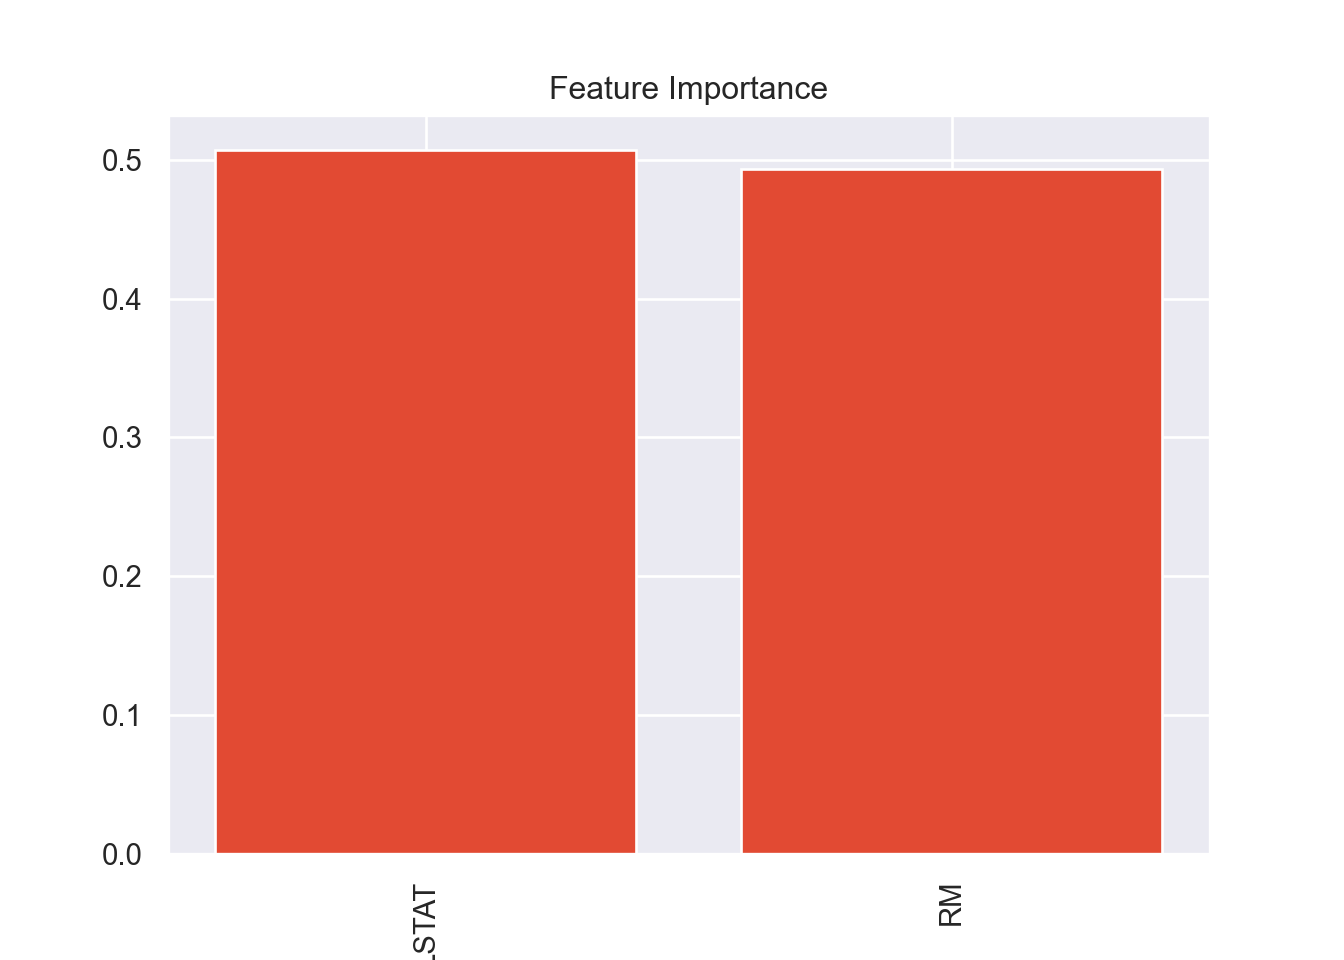
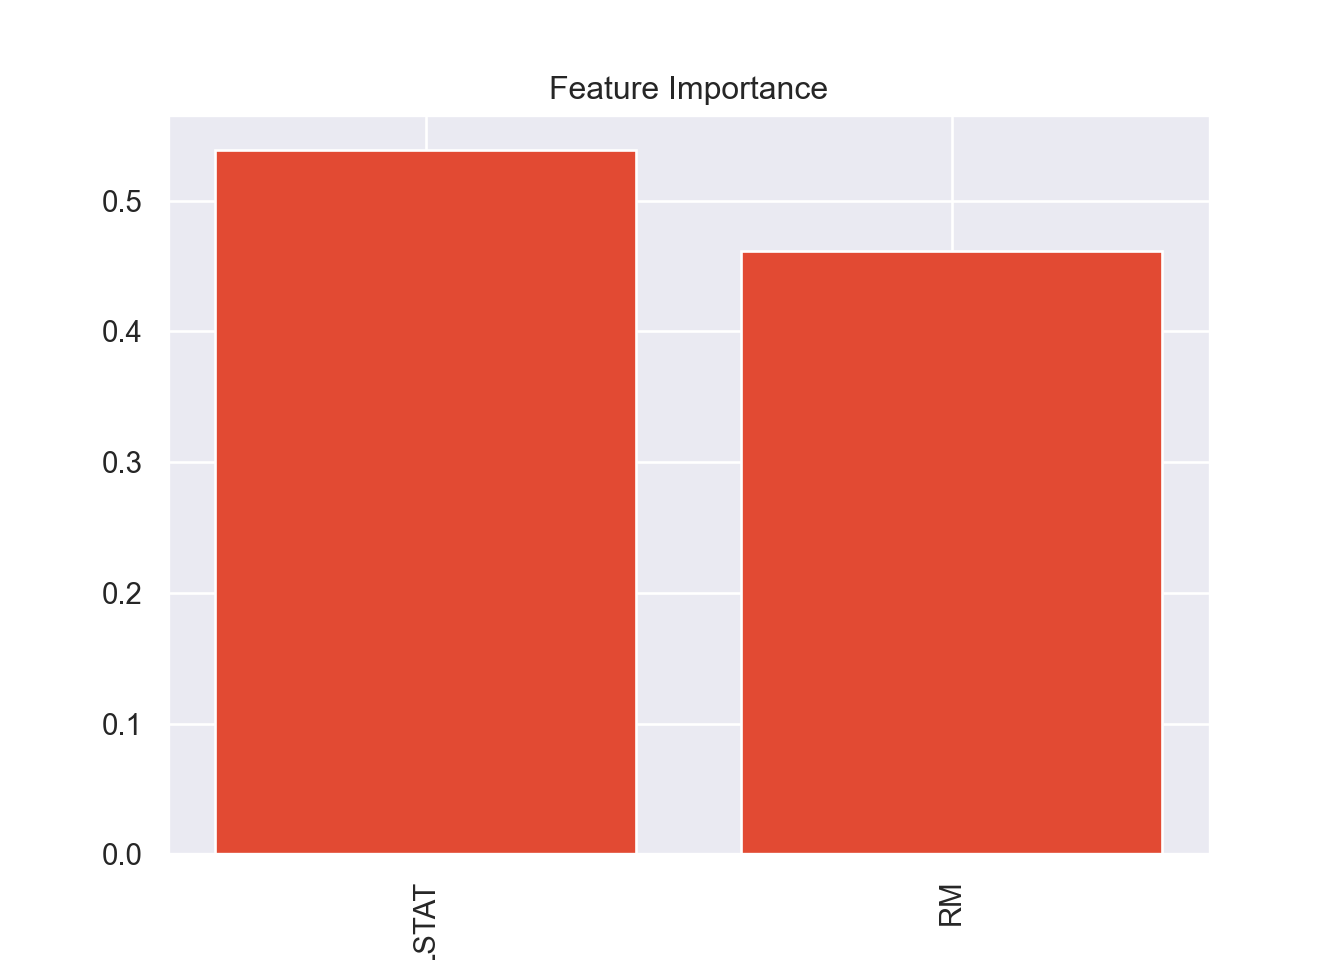
Updating jquery to 3.6.0 to mitigate security issues.

diff --git a/bitcoin.html b/bitcoin.html
@@ -566,8 +566,7 @@ line or ‘line of best fit’.</p>
 <span id="cb1-12"><a href="#cb1-12" tabindex="-1"></a>  <span class="fu">ylab</span>(<span class="st">&quot;USD&quot;</span>) <span class="sc">+</span></span>
 <span id="cb1-13"><a href="#cb1-13" tabindex="-1"></a>  <span class="fu">ggtitle</span>(<span class="st">&quot;Opening Price of Bitcoin&quot;</span>) <span class="sc">+</span></span>
 <span id="cb1-14"><a href="#cb1-14" tabindex="-1"></a>  <span class="fu">geom_smooth</span>(<span class="at">method =</span> <span class="st">&quot;loess&quot;</span>, <span class="at">level =</span> <span class="dv">0</span>)</span></code></pre></div>
-<pre><code>## `geom_smooth()` using formula
-## = &#39;y ~ x&#39;</code></pre>
+<pre><code>## `geom_smooth()` using formula = &#39;y ~ x&#39;</code></pre>
 <p><img src="bitcoin_files/figure-html/initial%20plot-1.png" width="672" /></p>
 <div class="sourceCode" id="cb3"><pre class="sourceCode r"><code class="sourceCode r"><span id="cb3-1"><a href="#cb3-1" tabindex="-1"></a>open <span class="ot">&lt;-</span> <span class="fu">as.ts</span>(df_sub<span class="sc">$</span>Open)</span></code></pre></div>
 </div>
@@ -653,12 +652,8 @@ transformed data.</p>
 <span id="cb8-9"><a href="#cb8-9" tabindex="-1"></a>  <span class="fu">ylab</span>(<span class="st">&quot;USD (after log transformation)&quot;</span>) <span class="sc">+</span></span>
 <span id="cb8-10"><a href="#cb8-10" tabindex="-1"></a>  <span class="fu">ggtitle</span>(<span class="st">&quot;Series after Box-Cox&quot;</span>) <span class="sc">+</span></span>
 <span id="cb8-11"><a href="#cb8-11" tabindex="-1"></a>  <span class="fu">geom_smooth</span>(<span class="at">method =</span> <span class="st">&quot;loess&quot;</span>, <span class="at">level =</span> <span class="dv">0</span>)</span></code></pre></div>
-<pre><code>## Don&#39;t know how to
-## automatically pick scale for
-## object of type &lt;ts&gt;.
-## Defaulting to continuous.
-## `geom_smooth()` using formula
-## = &#39;y ~ x&#39;</code></pre>
+<pre><code>## Don&#39;t know how to automatically pick scale for object of type &lt;ts&gt;. Defaulting to continuous.
+## `geom_smooth()` using formula = &#39;y ~ x&#39;</code></pre>
 <p><img src="bitcoin_files/figure-html/box-cox%20transformation-1.png" width="672" /></p>
 <div class="sourceCode" id="cb10"><pre class="sourceCode r"><code class="sourceCode r"><span id="cb10-1"><a href="#cb10-1" tabindex="-1"></a><span class="co"># comparing the variances of original and transformed data</span></span>
 <span id="cb10-2"><a href="#cb10-2" tabindex="-1"></a><span class="fu">var</span>(open)</span></code></pre></div>
@@ -943,29 +938,19 @@ compare the results with each other and with the true values.</p>
 <span id="cb30-10"><a href="#cb30-10" tabindex="-1"></a><span class="co"># True Values</span></span>
 <span id="cb30-11"><a href="#cb30-11" tabindex="-1"></a><span class="fu">autoplot</span>(open_add, <span class="at">xlim =</span> <span class="fu">c</span>(<span class="dv">300</span>, <span class="dv">375</span>)) <span class="sc">+</span> <span class="fu">xlab</span>(<span class="st">&quot;Days from 10/09/15&quot;</span>) <span class="sc">+</span> <span class="fu">ylab</span>(<span class="st">&quot;USD&quot;</span>) <span class="sc">+</span></span>
 <span id="cb30-12"><a href="#cb30-12" tabindex="-1"></a>  <span class="fu">ggtitle</span>(<span class="st">&quot;True Values for Opening Price of Bitcoin, 2016-08-03 - 2016-10-18&quot;</span>)</span></code></pre></div>
-<pre><code>## Warning: Removed 300 rows containing
-## missing values
-## (`geom_line()`).</code></pre>
+<pre><code>## Warning: Removed 300 rows containing missing values (`geom_line()`).</code></pre>
 <p><img src="bitcoin_files/figure-html/forecasting-1.png" width="672" /></p>
 <div class="sourceCode" id="cb32"><pre class="sourceCode r"><code class="sourceCode r"><span id="cb32-1"><a href="#cb32-1" tabindex="-1"></a><span class="co"># ARIMA(1,1,2)</span></span>
 <span id="cb32-2"><a href="#cb32-2" tabindex="-1"></a><span class="fu">autoplot</span>(forecast112, <span class="at">xlim =</span> <span class="fu">c</span>(<span class="dv">300</span>, <span class="dv">375</span>)) <span class="sc">+</span> <span class="fu">xlab</span>(<span class="st">&quot;Days from 10/09/15&quot;</span>) <span class="sc">+</span> <span class="fu">ylab</span>(<span class="st">&quot;USD&quot;</span>) <span class="sc">+</span></span>
 <span id="cb32-3"><a href="#cb32-3" tabindex="-1"></a>  <span class="fu">ggtitle</span>(<span class="st">&quot;ARIMA(1,1,2) Forecast for Opening Price of Bitcoin, 10 Days ahead&quot;</span>)</span></code></pre></div>
-<pre><code>## Warning: Removed 299 rows containing
-## missing values
-## (`geom_line()`).</code></pre>
-<pre><code>## Warning: Removed 1 row containing
-## missing values
-## (`geom_line()`).</code></pre>
+<pre><code>## Warning: Removed 299 rows containing missing values (`geom_line()`).</code></pre>
+<pre><code>## Warning: Removed 1 row containing missing values (`geom_line()`).</code></pre>
 <p><img src="bitcoin_files/figure-html/forecasting-2.png" width="672" /></p>
 <div class="sourceCode" id="cb35"><pre class="sourceCode r"><code class="sourceCode r"><span id="cb35-1"><a href="#cb35-1" tabindex="-1"></a><span class="co"># ARIMA (2,1,1)</span></span>
 <span id="cb35-2"><a href="#cb35-2" tabindex="-1"></a><span class="fu">autoplot</span>(forecast211, <span class="at">xlim =</span> <span class="fu">c</span>(<span class="dv">300</span>, <span class="dv">375</span>)) <span class="sc">+</span> <span class="fu">xlab</span>(<span class="st">&quot;Days from 10/09/15&quot;</span>) <span class="sc">+</span> <span class="fu">ylab</span>(<span class="st">&quot;USD&quot;</span>) <span class="sc">+</span></span>
 <span id="cb35-3"><a href="#cb35-3" tabindex="-1"></a>  <span class="fu">ggtitle</span>(<span class="st">&quot;ARIMA(2,1,1) Forecast for Opening Price of Bitcoin, 10 Days ahead&quot;</span>)</span></code></pre></div>
-<pre><code>## Warning: Removed 299 rows containing
-## missing values
-## (`geom_line()`).
-## Removed 1 row containing
-## missing values
-## (`geom_line()`).</code></pre>
+<pre><code>## Warning: Removed 299 rows containing missing values (`geom_line()`).
+## Removed 1 row containing missing values (`geom_line()`).</code></pre>
 <p><img src="bitcoin_files/figure-html/forecasting-3.png" width="672" /></p>
 <p>As we can see, the ARIMA(2,1,1) is very similar to the ARIMA(1,1,2)
 since both models had confidence intervals for their parameters that

diff --git a/housing-prices.html b/housing-prices.html
@@ -1088,27 +1088,27 @@ class="sourceCode python"><code class="sourceCode python"><span id="cb39-1"><a h
 <span id="cb39-13"><a href="#cb39-13" tabindex="-1"></a>mse_RF <span class="op">=</span> <span class="bu">round</span>(mean_squared_error(y_test, predictions_RF), <span class="dv">3</span>)</span>
 <span id="cb39-14"><a href="#cb39-14" tabindex="-1"></a>rmse_RF <span class="op">=</span> <span class="bu">round</span>(np.sqrt(mse_RF), <span class="dv">3</span>)</span>
 <span id="cb39-15"><a href="#cb39-15" tabindex="-1"></a><span class="bu">print</span>(<span class="st">&quot;</span><span class="sc">{}</span><span class="st"> is the Mean Squared Error.&quot;</span>.<span class="bu">format</span>(mse_RF))</span></code></pre></div>
-<pre><code>## 29.871 is the Mean Squared Error.</code></pre>
+<pre><code>## 30.743 is the Mean Squared Error.</code></pre>
 <div class="sourceCode" id="cb41"><pre
 class="sourceCode python"><code class="sourceCode python"><span id="cb41-1"><a href="#cb41-1" tabindex="-1"></a><span class="bu">print</span>(<span class="st">&quot;</span><span class="sc">{}</span><span class="st"> is the Root Mean Squared Error.&quot;</span>.<span class="bu">format</span>(rmse_RF))</span>
 <span id="cb41-2"><a href="#cb41-2" tabindex="-1"></a></span>
 <span id="cb41-3"><a href="#cb41-3" tabindex="-1"></a><span class="co"># R-squared</span></span></code></pre></div>
-<pre><code>## 5.465 is the Root Mean Squared Error.</code></pre>
+<pre><code>## 5.545 is the Root Mean Squared Error.</code></pre>
 <div class="sourceCode" id="cb43"><pre
 class="sourceCode python"><code class="sourceCode python"><span id="cb43-1"><a href="#cb43-1" tabindex="-1"></a>r2_RF <span class="op">=</span> <span class="bu">round</span>(model_RF.score(X_test, y_test), <span class="dv">3</span>)</span>
 <span id="cb43-2"><a href="#cb43-2" tabindex="-1"></a><span class="bu">print</span>(<span class="st">&quot;</span><span class="sc">{}</span><span class="st"> is the R-squared.&quot;</span>.<span class="bu">format</span>(r2_RF))</span>
 <span id="cb43-3"><a href="#cb43-3" tabindex="-1"></a>    </span>
 <span id="cb43-4"><a href="#cb43-4" tabindex="-1"></a><span class="co"># Residuals</span></span></code></pre></div>
-<pre><code>## 0.705 is the R-squared.</code></pre>
+<pre><code>## 0.696 is the R-squared.</code></pre>
 <div class="sourceCode" id="cb45"><pre
 class="sourceCode python"><code class="sourceCode python"><span id="cb45-1"><a href="#cb45-1" tabindex="-1"></a>residuals_RF <span class="op">=</span> y_test <span class="op">-</span> predictions_RF</span>
 <span id="cb45-2"><a href="#cb45-2" tabindex="-1"></a>residual_tests(residuals_RF)</span>
 <span id="cb45-3"><a href="#cb45-3" tabindex="-1"></a></span>
 <span id="cb45-4"><a href="#cb45-4" tabindex="-1"></a><span class="co"># Plotting</span></span></code></pre></div>
-<pre><code>## -0.206 is the mean of the residuals.
-## 0.817 is the test-statistic for the Shapiro-Wilk test with a p-value of 0.0.
+<pre><code>## -0.141 is the mean of the residuals.
+## 0.83 is the test-statistic for the Shapiro-Wilk test with a p-value of 0.0.
 ## We conclude that the residuals are not Normally distributed.
-## 2.105 is the test-statistic for the Durbin-Watson test.
+## 2.108 is the test-statistic for the Durbin-Watson test.
 ## We conclude there is little to no autocorrelation in the residuals and therefore they are independently distributed.</code></pre>
 <div class="sourceCode" id="cb47"><pre
 class="sourceCode python"><code class="sourceCode python"><span id="cb47-1"><a href="#cb47-1" tabindex="-1"></a>plot_model_diagnostics(predictions_RF, y_test, residuals_RF)</span>
@@ -1276,7 +1276,7 @@ class="sourceCode python"><code class="sourceCode python"><span id="cb68-1"><a h
 <pre><code>##              Algorithm    MSE  RMSE    R2
 ## 0       OLS Regression  38.40  6.20  0.62
 ## 1        Decision Tree  32.84  5.73  0.68
-## 2        Random Forest  29.87  5.46  0.70
+## 2        Random Forest  30.74  5.54  0.70
 ## 3    Gradient Boosting  29.23  5.41  0.71
 ## 4  k-Nearest Neighbors  31.01  5.57  0.69</code></pre>
 <div class="sourceCode" id="cb70"><pre
